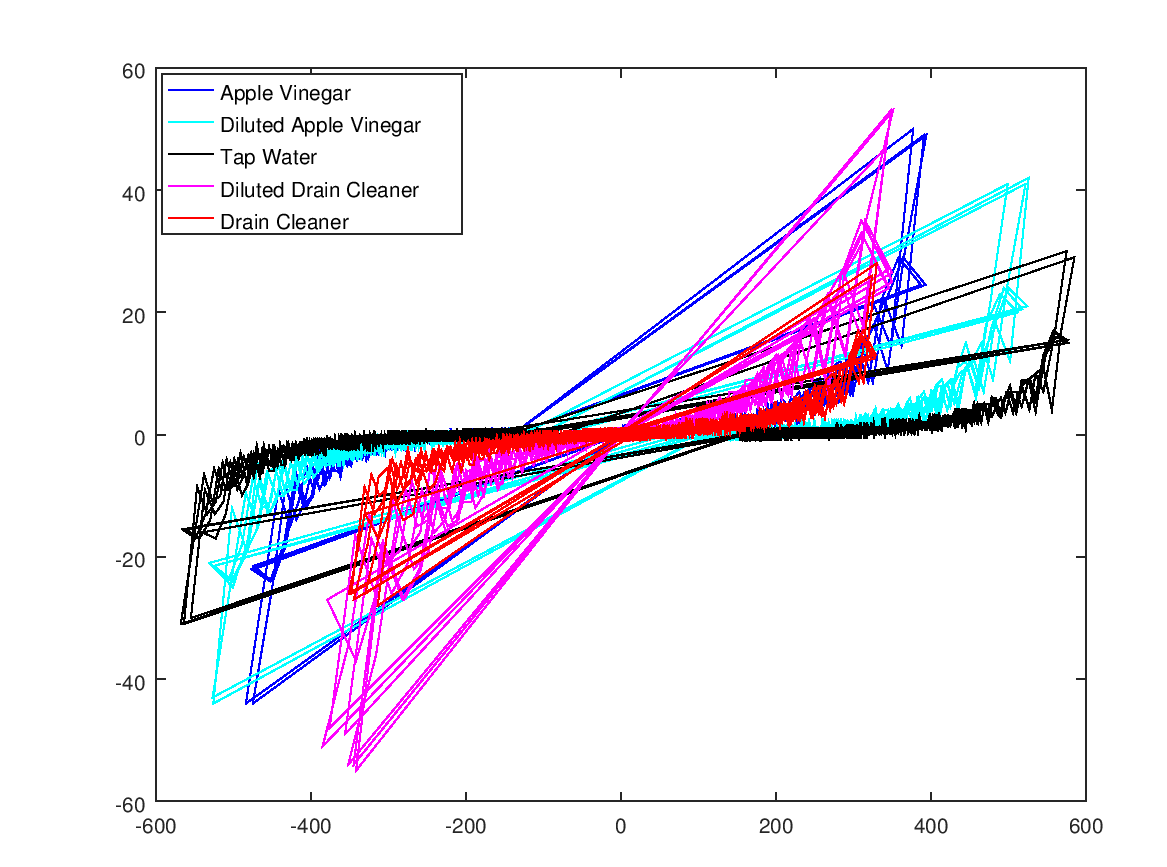
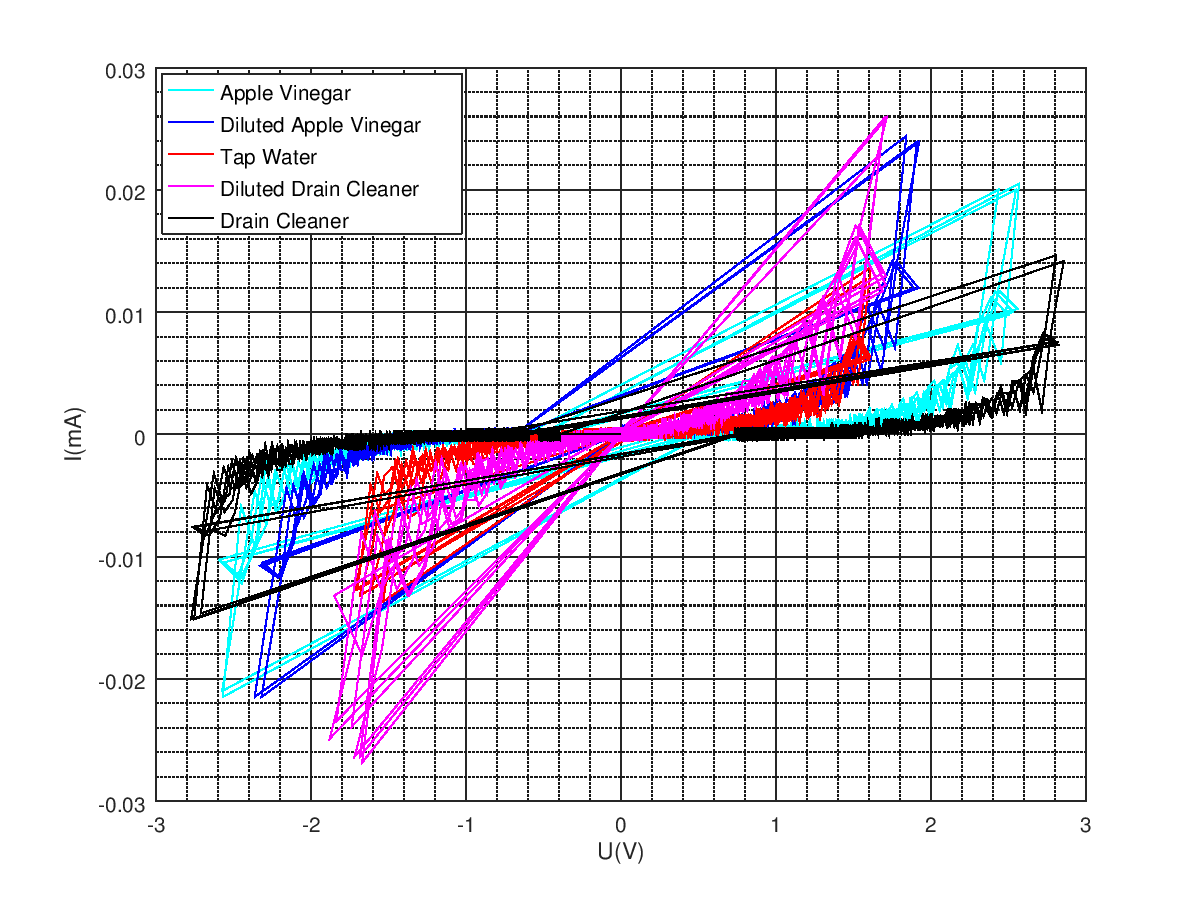
Measuring units.
Added measuring units to charts and helper functions to get conductivity
and current/voltage from raw data.

Changed region(s): [[0.0308, 0.0623, 0.9254, 0.9654], [0.9254, 0.9343, 0.9563, 0.9654], [0.8946, 0.9031, 0.9254, 0.9343]]

diff --git a/sketch-07-voltametry/current_voltage.m b/sketch-07-voltametry/current_voltage.m
@@ -8,8 +8,14 @@ function retval = current_voltage (D)
     if D(c, 1) <= D(c-1, 1)
       continue;
     endif
+    % the voltage is read directly from ADC
     voltage = D(c, 2);
-    current = (D(c-1, 2) - D(c, 2)) / (D(c, 1) - D(c-1, 1)) ;
+    % the current is estimated from I = dQ/dt = d(CU)/dt = CdU/dt
+    current = (D(c-1, 2) - D(c, 2)) / (D(c, 1) - D(c-1, 1)); 
+    
+    %voltage = (5/1024) * voltage;  % V
+    %current = (5/10240) * current; % mA, 100nF capacitor, time is in ms
+    
     retval = [ retval ; [ current, voltage ] ];
   endfor
 endfunction

diff --git a/sketch-07-voltametry/conductivity.m b/sketch-07-voltametry/conductivity.m
@@ -1,0 +1,9 @@
+## Author: bdobr <bdobr@BOGDANEL-DW10>
+## Created: 2017-04-10
+
+function retval = conductivity (pH)
+  % [H+] * [OH-] = 10^-14
+  % conductivity (S/m) = 0.1 * (349.82 * [H+] + 198.60 * [OH-])
+  retval = 0.1 * (349.82 * 10.^(-pH) + 198.60 * 10.^(pH-14)); % S/m
+  %retval = 10000 * retval; % uS/cm
+endfunction
